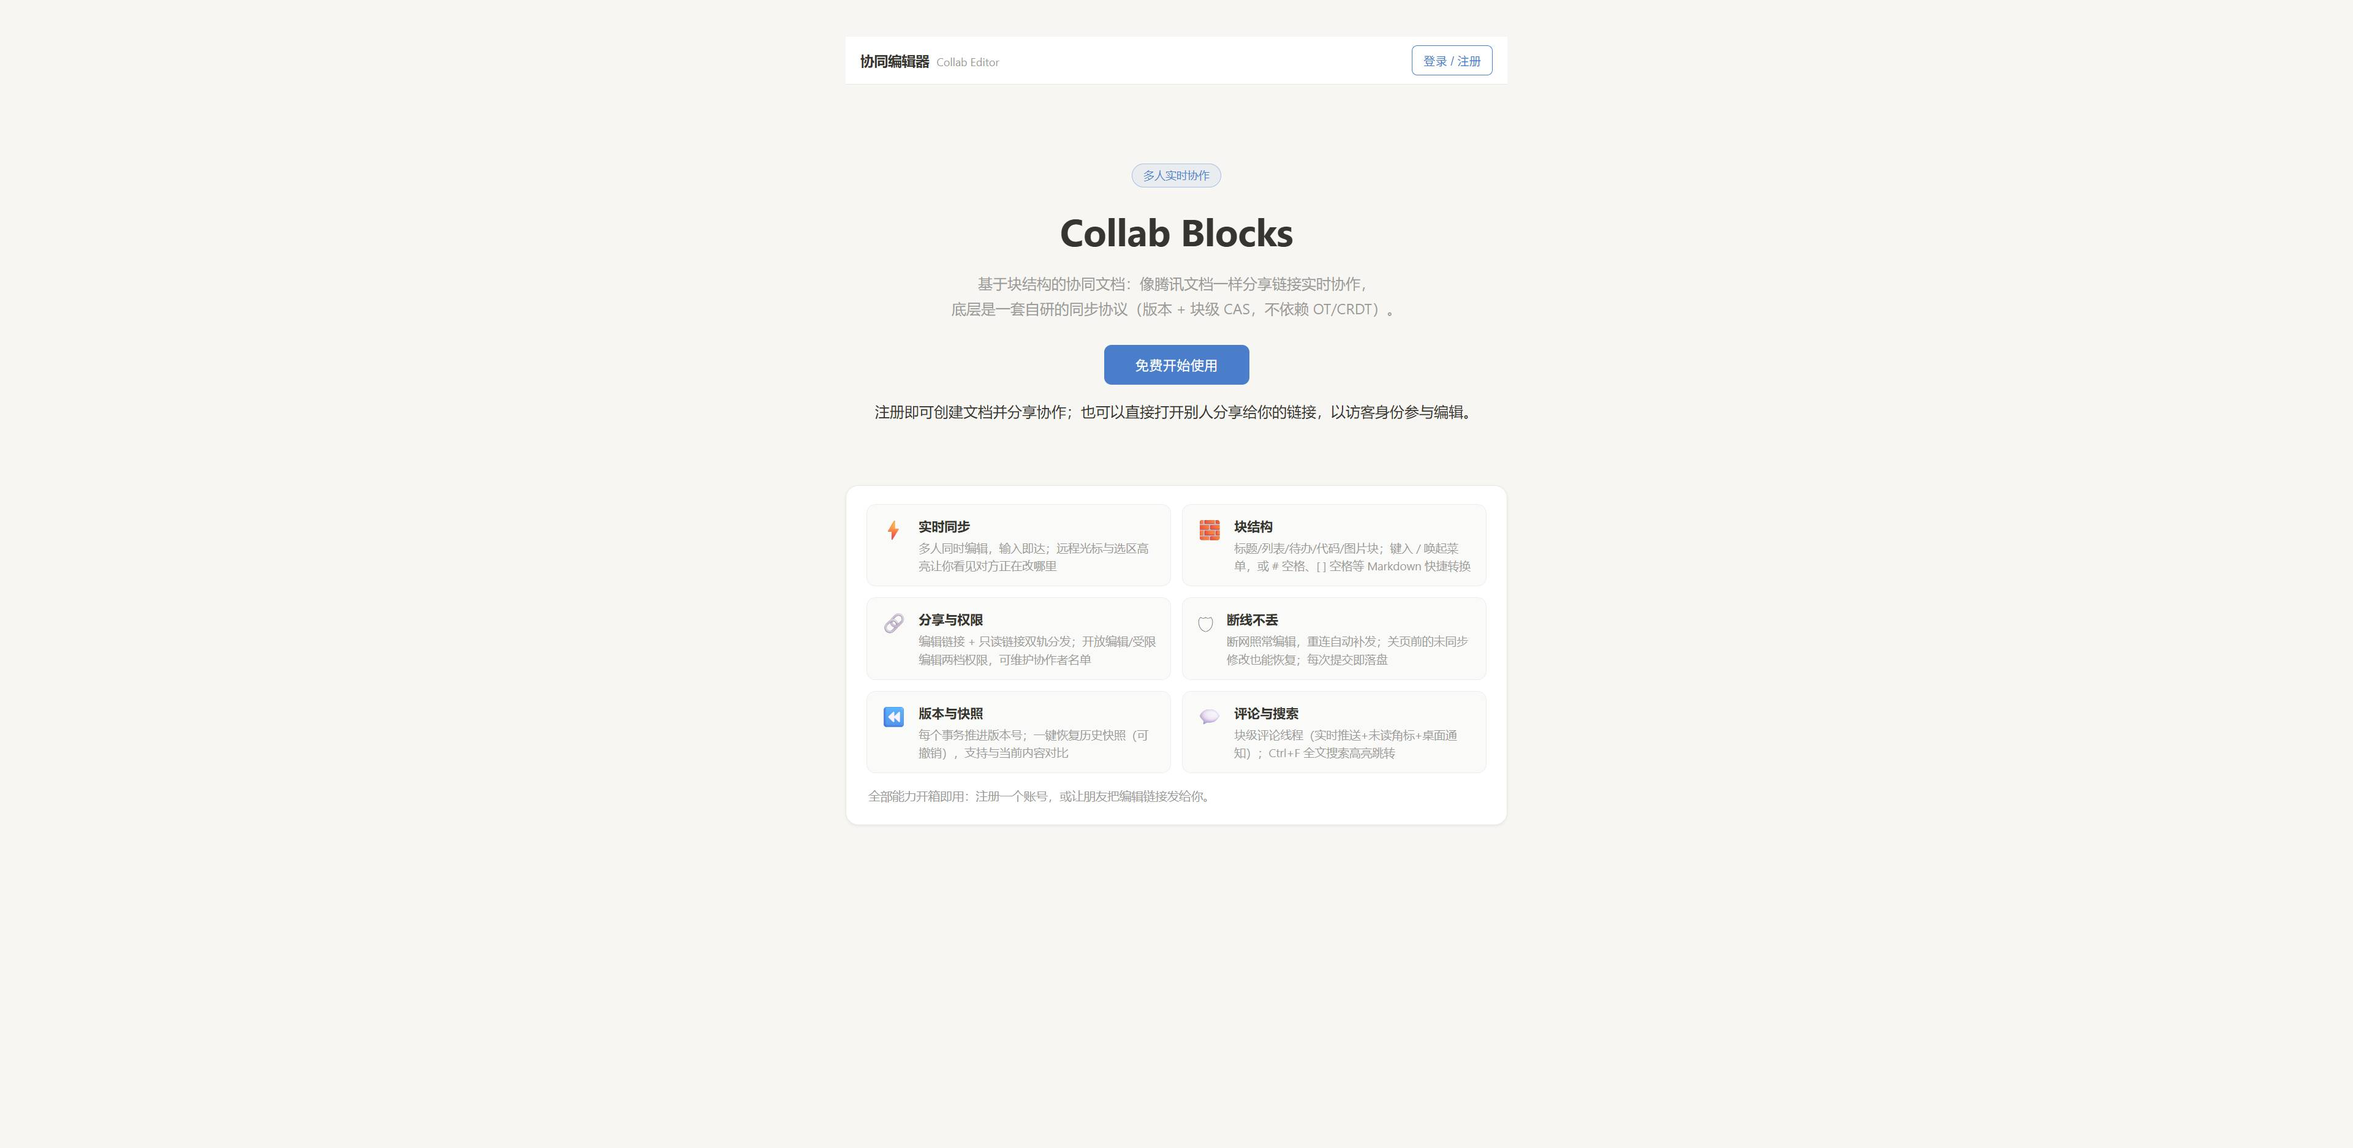
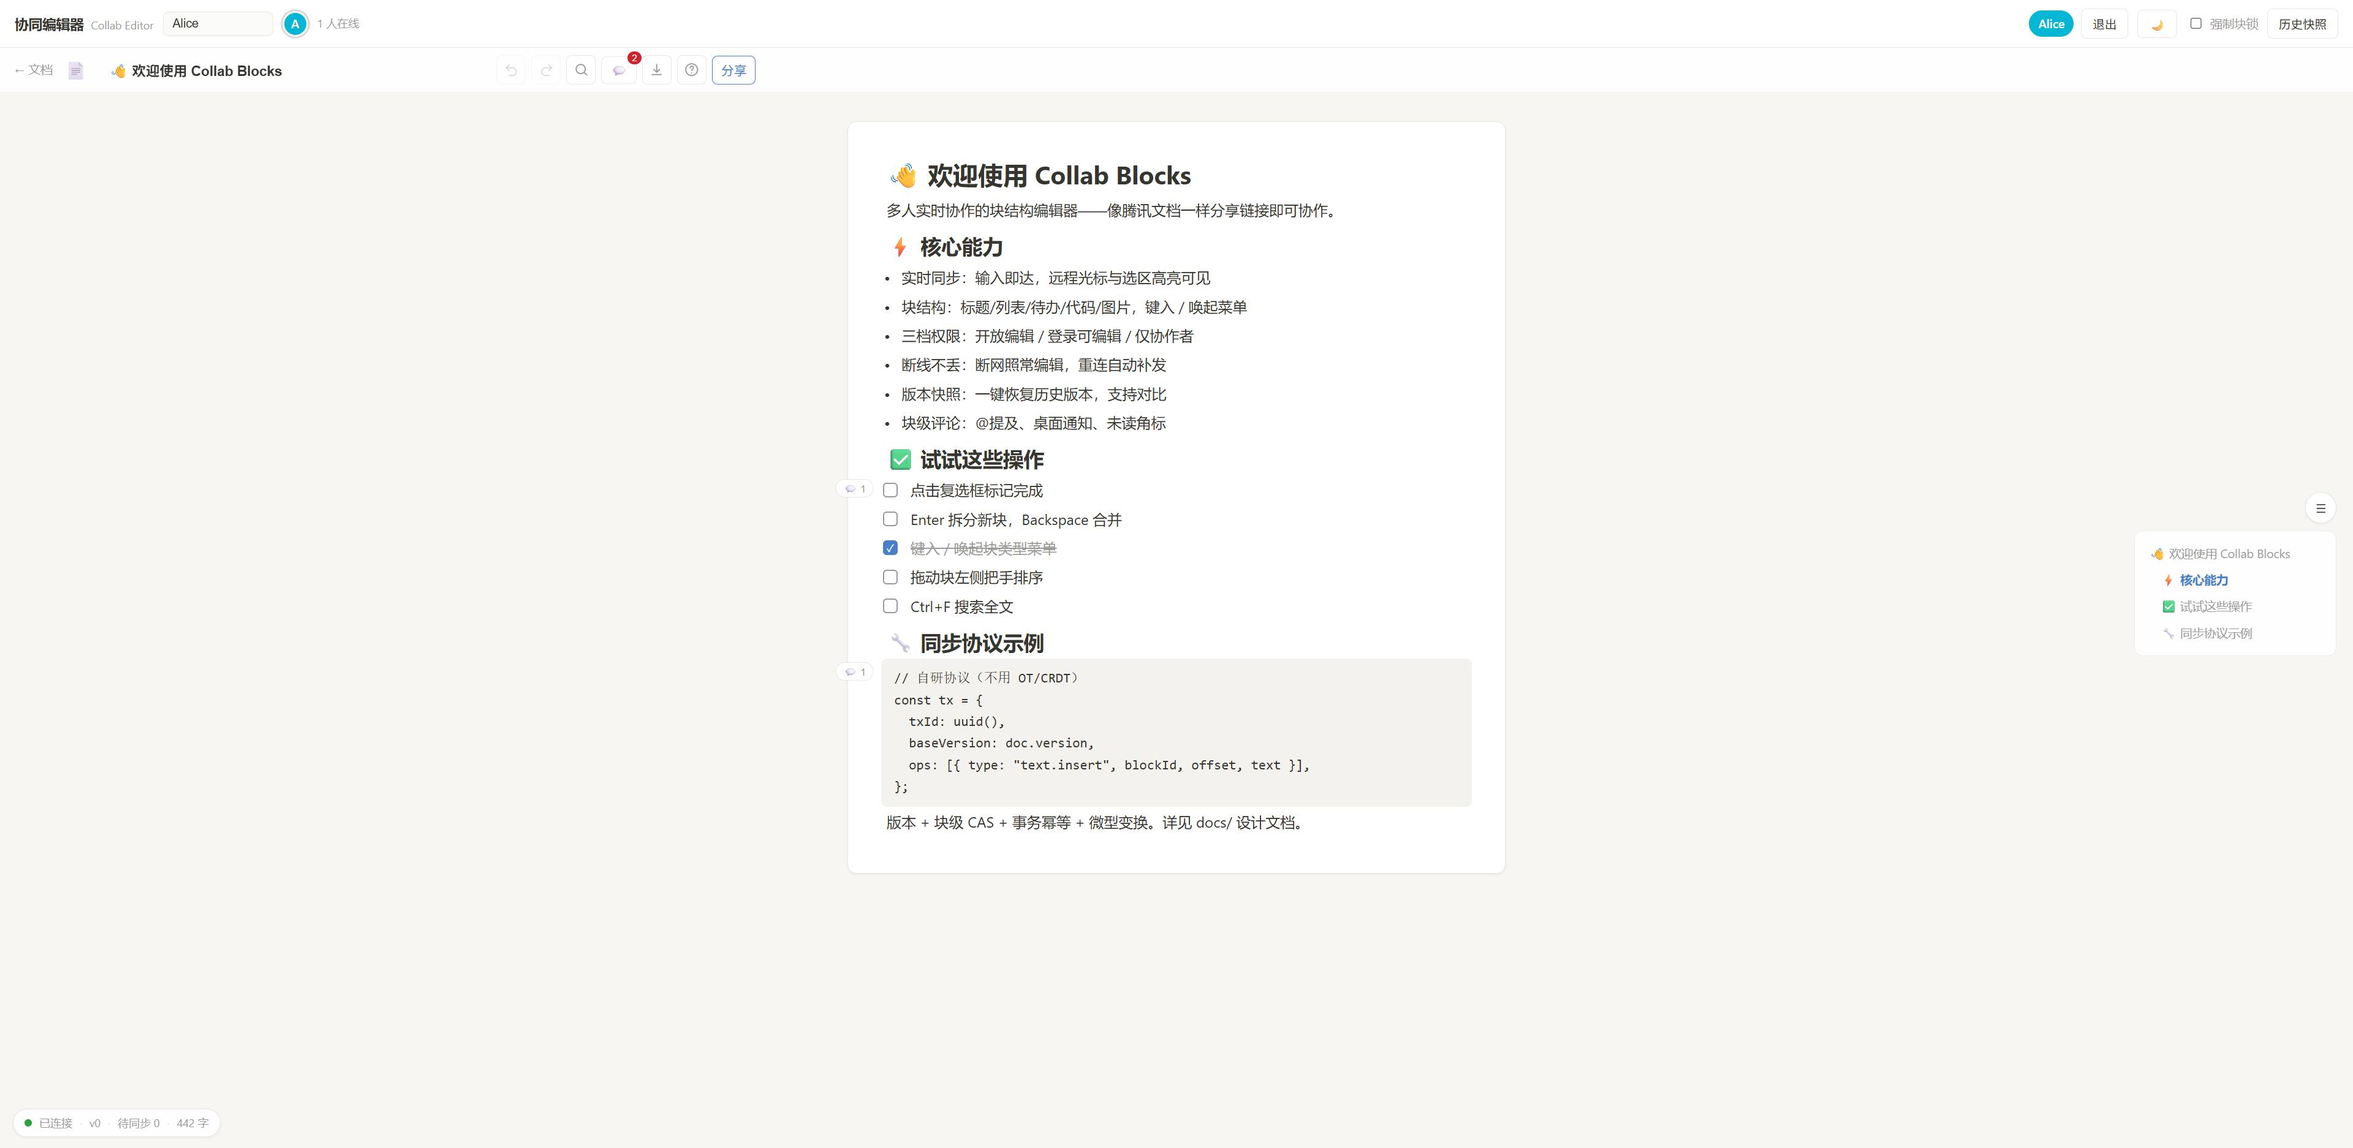
docs: 演示数据 + 最新截图 + README 全面重写 + 文档格式规范
- 演示数据：4 个文档覆盖全部功能（产品介绍/会议纪要/协议笔记/周报），
  含三档权限、评论@提及、协作者、权限申请待审；演示账号 Alice/Bob (demo123)
- 截图：4 张最新状态（未登录首页/登录首页/编辑器/分享面板）
- README 重写：截图表格化展示、功能表更新至 v12 全部能力、
  可折叠路由/命令/未完成/优化方向、文档导航表
- docs/01：新增演示数据说明表、修正 06 文件名引用
- 52/52 测试全绿

diff --git a/README.md b/README.md
@@ -4,152 +4,159 @@
 
 **基于 DOM 渲染的块结构协同编辑器**
 
-多人实时协作 · 多文档与分享链接 · 自研同步协议（无 OT/CRDT）
+多人实时协作 · 多文档与分享链接 · 三档权限 · 自研同步协议（无 OT/CRDT）
 
 [![CI](https://github.com/XYuumi/collab-blocks/actions/workflows/ci.yml/badge.svg)](https://github.com/XYuumi/collab-blocks/actions/workflows/ci.yml)
 [![License: MIT](https://img.shields.io/badge/License-MIT-blue.svg)](LICENSE)
 ![Node](https://img.shields.io/badge/node-%E2%89%A522-339933)
-![Tests](https://img.shields.io/badge/tests-52%20%E5%8D%95%E6%B5%8B%20%2B%2010%20E2E-2ea043)
+![Tests](https://img.shields.io/badge/tests-52%20unit%20%2B%2010%20E2E-2ea043)
 
 </div>
 
 ---
 
-## ✨ 功能一览
+## 截图
 
-| 类别 | 能力 |
-|:---|:---|
-| **协同核心** | 实时同步（WebSocket）、远程光标、**跨块远程选区高亮**、块锁（咨询/强制）、乐观更新、事务（Tx）原子提交、ACK、幂等重发、断线重连对账补发、冲突自动合并（块级 CAS + 微型变换）、Undo/Redo |
-| **文档与权限** | 多文档管理、**编辑链接 / 只读链接**双轨分享、**三档权限选择器**（开放 / 登录可编辑 / 受限）、**协作者名单**（按用户名邀请）、用户注册/登录（用户名全局唯一）、回收站（7 天恢复） |
-| **编辑体验** | 块类型（标题/列表/待办/代码/图片）、`/` 菜单、Markdown 快捷输入、**块拖拽排序**、图片粘贴（自动压缩）、全文搜索（Ctrl+F 高亮跳转）、大纲导航、快照恢复与对比、四格式导出 + **.md/.txt 导入**、**文档模板**、**多选块批量操作**（Shift+点击/↑↓）、**文档 emoji 图标**、**权限申请审批**、撤销/重做按钮、**@提及**、大文档**虚拟滚动** |
-| **协作感知** | 块级评论线程（实时推送 + 未读角标 + 持久化已读 + **@提及** + **桌面通知**）、在线用户列表、连接/版本/待同步状态栏 |
-| **工程质量** | 50 个单元测试 + 10 项 E2E 断言、GitHub Actions CI、每次提交即落盘（SQLite）、明暗主题、手机响应式 |
+| 未登录首页 | 登录后首页 |
+|:---:|:---:|
+| ![未登录首页](docs/screenshots/00-guest-home.jpg) | ![登录后首页](docs/screenshots/01-home.jpg) |
 
-![首页：产品介绍与文档列表](docs/screenshots/01-home-intro.jpg)
-
-![编辑器：块类型、大纲、远程光标](docs/screenshots/02-editor.jpg)
-
-![分享面板：编辑/只读链接与协作者名单](docs/screenshots/03-share.jpg)
+| 编辑器（块类型 · 待办 · 大纲 · 评论气泡） | 分享面板（三档权限 · 协作者 · 审批） |
+|:---:|:---:|
+| ![编辑器](docs/screenshots/02-editor.jpg) | ![分享面板](docs/screenshots/03-share.jpg) |
 
 ---
 
-## 🚀 快速开始
+## 功能一览
+
+| 类别 | 能力 |
+|:---|:---|
+| 协同核心 | 实时同步（WebSocket）、远程光标与跨块选区高亮、块锁、乐观更新、事务原子提交、ACK、幂等重发、断线重连对账补发、冲突自动合并（块级 CAS + 微型变换）、Undo/Redo |
+| 文档与权限 | 多文档管理、编辑/只读链接双轨分享、三档权限（开放/登录可编辑/受限）、协作者名单、权限申请审批、用户注册登录、回收站（7 天恢复） |
+| 编辑体验 | 块类型（标题/列表/待办/代码/图片）、`/` 菜单、Markdown 快捷输入、块拖拽排序、多选块批量操作、图片粘贴（自动压缩）、全文搜索、大纲导航、快照恢复与对比、四格式导出 + .md/.txt 导入、文档模板 |
+| 协作感知 | 块级评论线程、@提及、桌面通知、未读角标、在线用户列表、连接/版本/待同步状态栏 |
+| 工程质量 | 52 个单元测试 + 10 项 E2E 断言、GitHub Actions CI、每次提交即落盘（SQLite）、明暗主题、手机响应式、大文档虚拟滚动 |
+
+---
+
+## 快速开始
 
 ```bash
 git clone https://github.com/XYuumi/collab-blocks.git
 cd collab-blocks
-npm install        # Node ≥ 22（推荐 24；npm workspaces）
-
-npm test           # 52 个测试：引擎 / WS 协议 / 认证存储 / 多文档权限 / 评论回收站 / 协作者图片 / 性能护栏 + 客户端模型收敛
-npm run build      # 构建前端
-npm start          # 启动 → http://localhost:3000
+npm install
+npm run build
+npm start          # → http://localhost:3000
 ```
 
-可选命令：
-
-```bash
-npm run dev        # 开发模式：Vite 热更新（5173），/ws 与 /api 代理到 3000
-npm run test:e2e   # E2E：本机 Chrome 双开跑 10 项协同断言（需先 build）
-```
-
-**体验协同（30 秒）**：注册登录 → 首页「＋ 新建文档」→ 点「分享」复制链接 → 另一个标签页/浏览器打开 → 双方同时编辑，实时看到对方的光标、选区与内容。
+**体验协同**：注册登录 → 新建文档 → 点「分享」复制链接 → 另一标签页打开 → 双方同时编辑。
 
 <details>
-<summary><b>页面路由</b></summary>
+<summary>可选命令</summary>
 
-| 路径 | 页面 |
+```bash
+npm run dev        # 开发模式：Vite 热更新（5173），代理 /ws /api 到 3000
+npm test           # 52 个单元测试
+npm run test:e2e   # E2E：本机 Chrome 双开 10 项断言
+```
+
+</details>
+
+<details>
+<summary>页面路由</summary>
+
+| 路径 | 说明 |
 |:---|:---|
-| `/` | 文档首页：产品介绍卡、我的文档列表、新建/改名/删除、回收站 |
-| `/d/:docId` | 编辑页（编辑链接，UUID 即凭据；是否可编辑取决于权限设置） |
-| `/r/:roToken` | 只读入口：实时查看他人编辑，整页禁编辑 |
+| `/` | 文档首页：产品介绍、我的文档列表、新建（模板选择）、回收站 |
+| `/d/:docId` | 编辑页（编辑链接，UUID 即凭据） |
+| `/r/:roToken` | 只读入口：实时查看，整页禁编辑 |
 
 </details>
 
 ---
 
-## 🧱 技术栈
+## 技术栈
 
-| 层 | 选择 | 一句话理由 |
+| 层 | 选择 | 理由 |
 |:---|:---|:---|
-| 前端 | TypeScript + Vite + **原生 DOM（无框架）** | contenteditable 的光标/IME 状态必须精确到节点地控制，框架重渲染是这类编辑器的经典坑（[选型详析](docs/07-技术选型对比.md)） |
-| 编辑模型 | 每 Block 一个 `contenteditable="plaintext-only"` | 把偏移混乱隔离在块内；`input` 后前后缀 diff 推导操作 |
-| 后端 | Node.js + `ws` + Express 单端口 | HTTP 与 WebSocket 同进程，部署即一个命令 |
-| 数据库 | Node 内置 `node:sqlite`（零原生依赖） | users / sessions / docs / snapshots / comments / collaborators 六表；**每次提交事务落盘** |
-| 认证 | scrypt 加盐哈希 + 会话 token | 密码不落明文；token 可撤销 |
-| 测试 | node:test ×50 + puppeteer-core E2E ×10 | 引擎到浏览器的全链路保障 |
+| 前端 | TypeScript + Vite + 原生 DOM | contenteditable 光标/IME 必须精确到节点控制 |
+| 编辑模型 | 每 Block 一个 `plaintext-only` CE | 偏移混乱隔离在块内；diff 推导操作 |
+| 后端 | Node.js + ws + Express 单端口 | HTTP 与 WS 同进程，一条命令部署 |
+| 数据库 | Node 内置 node:sqlite | 零原生依赖；六表；每次提交事务落盘 |
+| 认证 | scrypt + 会话 token | 密码不落明文；token 可撤销 |
+| 测试 | node:test + puppeteer-core E2E | 引擎到浏览器全链路 |
 
 ---
 
-## 🗂 数据结构
+## 数据结构
 
 ```
-Document = { version, structureVersion, blocks: Block[] }          // 服务器为唯一权威
-Block    = { id: UUID, type, text, checked?, src? }                // type: text|h1|h2|h3|bullet|todo|code|image
-         + 服务器簿记 { blockVersion, lastWriter }                  // 块级 CAS 依据
+Document = { version, structureVersion, blocks: Block[] }
+Block    = { id: UUID, type, text, checked?, src? }
+           + { blockVersion, lastWriter }              // 块级 CAS 依据
 
-Op  = block.insert(id, afterId, text, blockType?, src?)
-    | block.delete(id) | block.update(id, blockType?, checked?)
-    | doc.replace(blocks)                                           // 快照恢复
-    | text.insert(blockId, offset, text) | text.delete(blockId, offset, length)
+Op  = block.insert | block.delete | block.update
+    | block.move | doc.replace                        // 快照恢复
+    | text.insert | text.delete
 
-Tx  = { txId, baseVersion, ops[] }                                  // 原子提交 / 幂等重试 / 撤销单位
+Tx  = { txId, baseVersion, ops[] }                    // 原子提交/幂等/撤销单位
 ```
 
-设计要点：操作用 **BlockId/afterId 锚定而非下标**（免疫并发结构漂移）；`version` 全局单调 + 每块 `blockVersion` 细化 CAS，使**不同块并发永不冲突**。→ 详见 [docs/02](docs/02-架构与数据结构.md)
+操作用 BlockId 锚定而非下标；version 全局单调 + blockVersion 细化 CAS，不同块并发永不冲突。详见 [docs/02](docs/02-架构与数据结构.md)。
 
 ---
 
-## 🔁 协同怎么实现（30 秒版）
+## 协同原理（30 秒）
 
-1. **乐观更新**：键入本地立即可见，打包为事务（30ms 合批）经 WebSocket 提交，服务器逐个 ACK 并按文档房间广播；
-2. **服务器仲裁**：txId 幂等去重 → 角色检查（viewer 拒写）→ 块锁检查 → **块级 CAS** → 副本原子应用 → version+1 → SQLite 落盘；
-3. **同块冲突**：后到者被拒（附权威文本）→ 客户端把 pending 操作做"块内微型变换" → 以新基线自动重试 → 双方输入都保留；
-4. **可靠性**：超时同 txId 重发；断线指数退避重连 + `sync` 对账（防重复应用）；未确认编辑实时落 localStorage，**关页重开自动恢复**；
-5. **快照恢复**：恢复 = 提交一个 `doc.replace` 事务（原子、可撤销、他人端实时同步）。
+1. **乐观更新**：键入本地立即可见 → 事务合批（30ms）→ WebSocket 提交 → 服务器 ACK + 广播
+2. **仲裁**：txId 幂等 → 角色检查 → 块级 CAS → 原子应用 → SQLite 落盘
+3. **冲突**：后到者被拒 → 块内微型变换 → 自动重试 → 双方输入保留
+4. **可靠性**：超时重发、断线对账、关页恢复（localStorage）
+5. **快照**：恢复 = `doc.replace` 事务（原子、可撤销）
 
-时序图与消息表见 [docs/03](docs/03-同步协议与可靠性.md)，收敛性论证见 [docs/04](docs/04-冲突处理与一致性.md)。
-
----
-
-## 🐛 开发中遇到的问题（摘要，全记录在 [docs/06](docs/06-代码审查报告.md)）
-
-1. 结构调和不同步已有块文本 → 重连后 DOM 陈旧且会污染后续 diff（已修复 + 回归覆盖）；
-2. 身份伪造（hello 任意 userId 绕过块锁）与跨站 WS 劫持 → token 身份 + Origin 校验；
-3. 跨块选区被 offset 比较吞掉（两个偏移分属不同块不可比较）→ 按 focusBlockId 判定；
-4. CSS HighlightRegistry 不是 Map 实例导致搜索高亮静默降级 → 鸭子类型检测；
-5. Windows Chrome headless 下 `--no-sandbox` 多标签崩溃（E2E 环境坑）。
+详见 [docs/03](docs/03-同步协议与可靠性.md) / [docs/04](docs/04-冲突处理与一致性.md)。
 
 ---
 
-## 📋 还没完成的
+## 设计文档
 
-- 撤销不感知他人同块修改（选择性撤销属研究级，[路线](docs/04-冲突处理与一致性.md)）；
-- 块内富文本样式（跨字符加粗，需 Peritext 级 CRDT）；
-- HTTP 未加 TLS（公网部署前置 HTTPS 即可；本项目 token 走请求体非 Cookie，CSRF 不适用）；
-- 水平扩展（多进程需 Redis 广播/文档分片）。
-
-## 🗺 继续开发的优化方向
-
-1. 版本化 op log 增量对账（替代全量快照，大文档带宽友好）；
-2. 块内变换升级为完整双边变换（OT-lite）或块内文本层引入 CRDT（Yjs）；
-3. 外部图片存储（对象存储 + URL 引用，`Block.src` 字段已就位）；
-4. 协作者权限细化为完整 ACL、评论通知（邮件/站内信）；
-5. 大文档虚拟滚动、多进程 + Redis 分片。
+| # | 文档 | 内容 |
+|:-:|:---|:---|
+| 01 | [功能说明](docs/01-功能说明.md) | 功能清单、输入方式、已知限制 |
+| 02 | [架构与数据结构](docs/02-架构与数据结构.md) | 架构图、选型论证、模块清单 |
+| 03 | [同步协议与可靠性](docs/03-同步协议与可靠性.md) | 消息表、时序图、幂等/重连/对账 |
+| 04 | [冲突处理与一致性](docs/04-冲突处理与一致性.md) | 方案对比、场景矩阵、收敛性论证 |
+| 05 | [设计自问自答](docs/05-设计自问自答.md) | 35 个设计决策的完整思考 |
+| 06 | [审查报告](docs/06-审查报告.md) | 十六轮迭代的 bug 清单与修复 |
+| 07 | [技术选型对比](docs/07-技术选型对比.md) | 原生 vs 框架 vs TipTap+Yjs |
 
 ---
 
-## 📖 设计文档
+## 未完成与优化方向
 
-| 文档 | 内容 |
-|:---|:---|
-| [01 · 功能说明](docs/01-功能说明.md) | 全部功能清单、输入方式速查表、演示脚本、已知限制 |
-| [02 · 架构与数据结构](docs/02-架构与数据结构.md) | 总体架构图、技术选型论证、Document-Block 模型、模块清单、关键不变量 |
-| [03 · 同步协议与可靠性](docs/03-同步协议与可靠性.md) | 消息表、时序图、仲裁规则、幂等/重连/对账机制 |
-| [04 · 冲突处理与一致性](docs/04-冲突处理与一致性.md) | 候选方案对比（FWW/LWW/Reject/Retry）、场景矩阵、收敛性论证、OT/CRDT 演进路线 |
-| [05 · 设计自问自答](docs/05-设计自问自答.md) | 35 个设计决策的完整思考过程（题目全部思考题逐条作答） |
-| [06 · 代码审查报告](docs/06-代码审查报告.md) | 十轮迭代的 bug/漏洞清单与修复记录、验证矩阵、残留风险 |
-| [07 · 技术选型对比](docs/07-技术选型对比.md) | 原生 DOM vs 框架外壳 vs TipTap+Yjs 全家桶的逐项对比与结论 |
+<details>
+<summary><b>还没完成的</b></summary>
 
-## 📄 许可
+- 撤销不感知他人同块修改（选择性撤销属研究级）
+- 块内富文本样式（跨字符加粗，需 Peritext 级 CRDT）
+- HTTP 未加 TLS（公网部署前置 HTTPS）
+- 水平扩展（多进程需 Redis 广播/文档分片）
+
+</details>
+
+<details>
+<summary><b>继续优化方向</b></summary>
+
+1. 版本化 op log 增量对账
+2. 块内变换升级为 OT-lite 或引入 CRDT
+3. 外部图片存储（对象存储 + URL）
+4. 完整 ACL、评论通知
+5. 多进程 + Redis 分片
+
+</details>
+
+---
+
+## 许可
 
 [MIT](LICENSE) © 2026 XYumi

diff --git a/docs/01-功能说明.md b/docs/01-功能说明.md
@@ -119,7 +119,20 @@ npm run dev
 | 历史快照查看 | 顶栏"历史快照"按钮：列出快照、点击只读查看任意版本内容 |
 | 持久化 | 服务器提交后防抖写入 data/doc.json，重启不丢 |
 
-## 3. 五分钟演示脚本
+## 3. 演示数据与演示脚本
+
+首次启动后系统自动创建种子文档。运行 `node scripts/seed-demo.mjs` 可创建完整演示数据：
+
+| 文档 | 权限 | 演示内容 |
+|:---|:---|:---|
+| 👋 欢迎使用 Collab Blocks | 开放编辑 | 全部块类型、评论（含@提及）、协作者 |
+| 📋 项目启动会议 | 开放编辑 | 会议纪要模板结构 |
+| 💡 同步协议设计笔记 | 登录可编辑 | 访客只读场景 |
+| 📊 第 39 周周报 | 受限编辑 | 权限申请审批流程（Bob 待审） |
+
+演示账号：**Alice / demo123**、**Bob / demo123**
+
+## 4. 五分钟演示脚本
 
 1. **首页与登录**：A 标签页注册"小明" → 首页"＋ 新建文档"→ 进入编辑页（顶部标题可改）。
 2. **分享**：点"分享"→ 复制**只读链接**给 B 标签页打开 → B 显示"👁 只读模式"徽标，整页禁编辑，
@@ -133,7 +146,7 @@ npm run dev
    未同步的文字自动恢复并补发（Toast 提示）。
 9. **同块冲突**（自动化测试验证）：两人同时改同一段落后到者自动合并重试，双方输入都保留。
 
-## 4. 已知限制（详见 docs/04/05/06/07）
+## 5. 已知限制（详见 docs/04/05/06/07）
 
 - 撤销是本地线性撤销，不感知他人对同一块的修改（选择性撤销属研究级，见 docs/04 演进路线）；
 - 同块并发依赖"块内微型变换"做合并体验，非严格 OT/CRDT（服务器 CAS + 拒绝重试兜底）；
